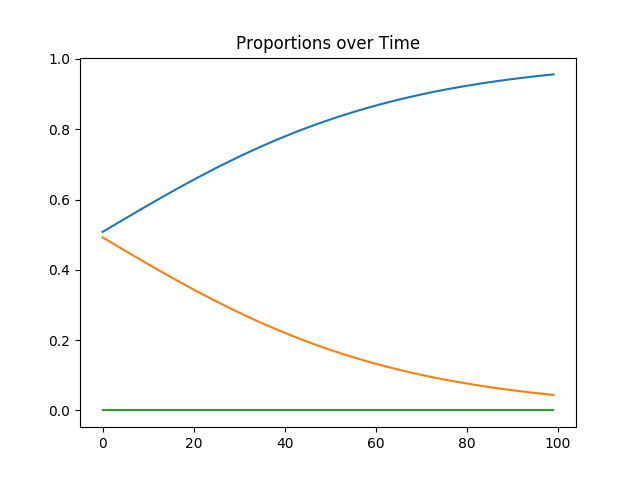
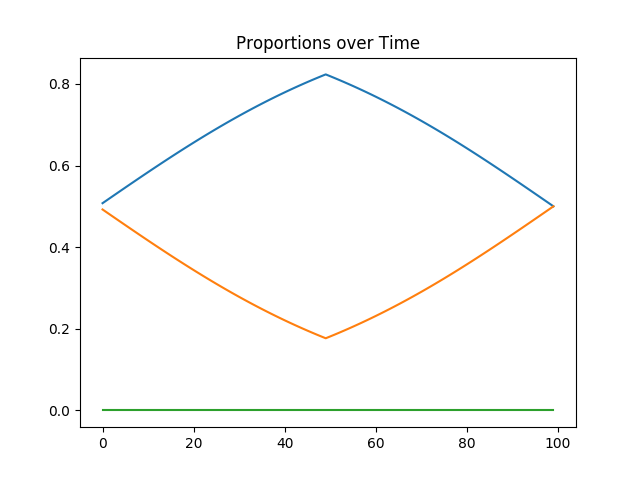
two treatements

diff --git a/data/drug-resis/main.py b/data/drug-resis/main.py
@@ -27,7 +27,7 @@ if __name__ == "__main__":
                     'alpha':    0.03,
                     'beta':     0.03,
                     'dB':       0,
-                    'dA':       1
+                    'dA':       0
                     }
     model = Evolve(model_data)
 
@@ -42,7 +42,16 @@ if __name__ == "__main__":
     
     model.log()
 
-    for _ in range(MAX_TIME):
+    for t in range(MAX_TIME):
+        
+        # Treatment
+        if( t < MAX_TIME//2):
+            model.modify_drug('dA', 1)
+            model.modify_drug('dB', 0)
+        else:
+            model.modify_drug('dA', 0)
+            model.modify_drug('dB', 1)
+
 
         # Calculuate Fitness
         model.colonyA.fitness = model.get_fitness('A')
@@ -52,6 +61,8 @@ if __name__ == "__main__":
         # Adjust Proportion
         model.adjust_proportion()
         
+
+        # Log Data
         propA, propB, propS = extract_prop(model)
         fitA, fitB, fitS    = extract_fit(model)
 
@@ -64,6 +75,8 @@ if __name__ == "__main__":
         logfitS.append(fitS)
         model.log()
         model.inc_time()
+
+    # Plot Resulting Curves
     
     x_axis = [k for k in range(MAX_TIME)]
     import matplotlib.pyplot as plt

diff --git a/data/drug-resis/evolve.py b/data/drug-resis/evolve.py
@@ -85,6 +85,9 @@ class Evolve:
     def inc_time(self):
         self.time += 1
 
+    def modify_drug(self, drugname, amt):
+        self.data[drugname] = amt
+
     def __init__(self, dic=None, num_med=2):        
         """
             :attr time: Time stamp starting from t=0
